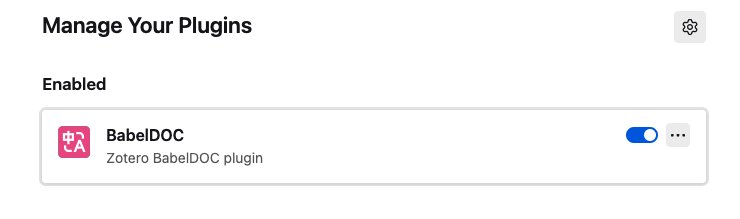
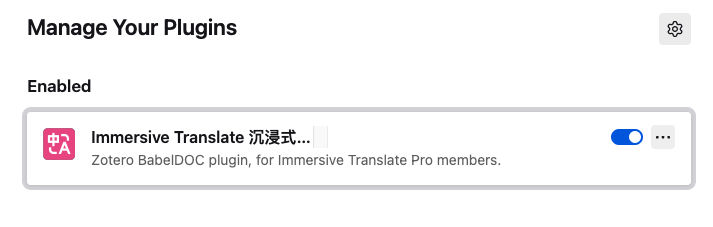
docs: Update README

diff --git a/README.md b/README.md
@@ -1,11 +1,9 @@
-# Zotero BabelDOC plugin
+# Zotero Immersive Translate plugin
 
 [![zotero target version](https://img.shields.io/badge/Zotero-7-green?style=flat-square&logo=zotero&logoColor=CC2936)](https://www.zotero.org)
 [![Using Zotero Plugin Template](https://img.shields.io/badge/Using-Zotero%20Plugin%20Template-blue?style=flat-square&logo=github)](https://github.com/windingwind/zotero-plugin-template)
 
-这是沉浸式翻译旗下的 BabelDOC Zotero 插件，用于翻译 Zotero 的文献。
-
-[BabelDOC 仓库地址](https://github.com/funstory-ai/BabelDOC)
+这是沉浸式翻译的 Zotero 插件，使用 [BabelDOC](https://github.com/funstory-ai/BabelDOC) 翻译 Zotero 的 PDF 文献。
 
 [在网页中使用 BabelDOC](https://app.immersivetranslate.com/babel-doc/)
 
@@ -33,7 +31,7 @@
 
 4. 在设置页面配置目标语言、翻译模型、翻译模式等等。
 
-5. 在 Zotero 的文献管理页面，右键文件，出现右键菜单，选择 `使用 BabelDOC 翻译`
+5. 在 Zotero 的文献管理页面，右键文件，出现右键菜单，选择 `使用沉浸式翻译`
 
 ![Translate](./screenshots/right_menu.png)
 
@@ -87,11 +85,11 @@
 
 ## 不小心关闭了任务管理窗口，怎么办？
 
-可以在 Zotero 的 `查看` 菜单下，点击 `查看 BabelDOC 翻译任务`，打开任务管理窗口。
+可以在 Zotero 的 `查看` 菜单下，点击 `查看沉浸式翻译任务`，打开任务管理窗口。
 
 ## 反馈
 
-可以在 [Issues](https://github.com/immersive-translate/zotero-babeldoc/issues) 中反馈问题。
+可以在 [Issues](https://github.com/immersive-translate/zotero-immersivetranslate/issues) 中反馈问题。
 
 或者 [加入 BabelDOC 的内测群](https://immersivetranslate.com/zh-Hans/docs/communities/)，进行反馈。
 

diff --git a/CONTRIBUTING.md b/CONTRIBUTING.md
@@ -92,7 +92,7 @@ When adding or modifying user-facing text:
 
 ## Reporting Issues
 
-- Use the [GitHub Issues](https://github.com/immersive-translate/zotero-babeldoc/issues) page to report bugs or suggest features.
+- Use the [GitHub Issues](https://github.com/immersive-translate/zotero-immersivetranslate/issues) page to report bugs or suggest features.
 - Before creating a new issue, please check if a similar issue already exists.
 - Provide detailed information about the issue, including:
   - Steps to reproduce
